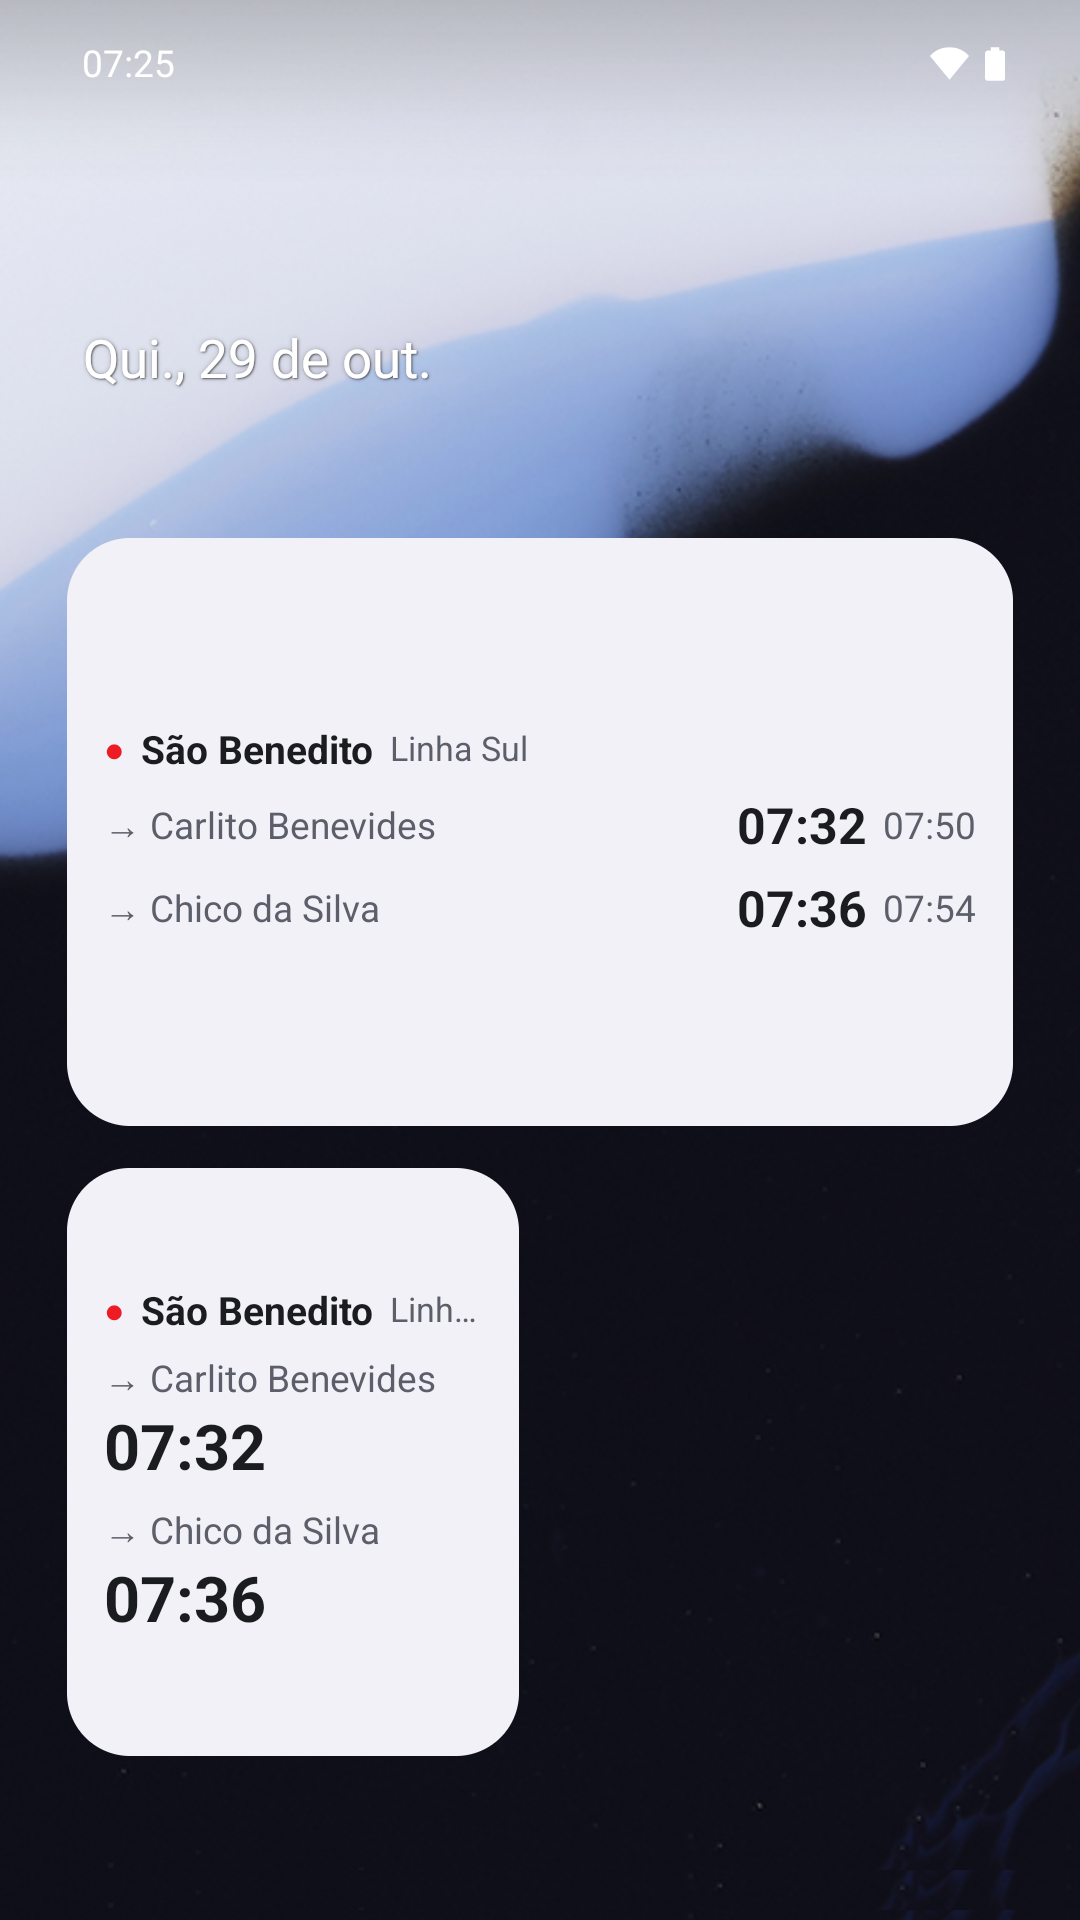
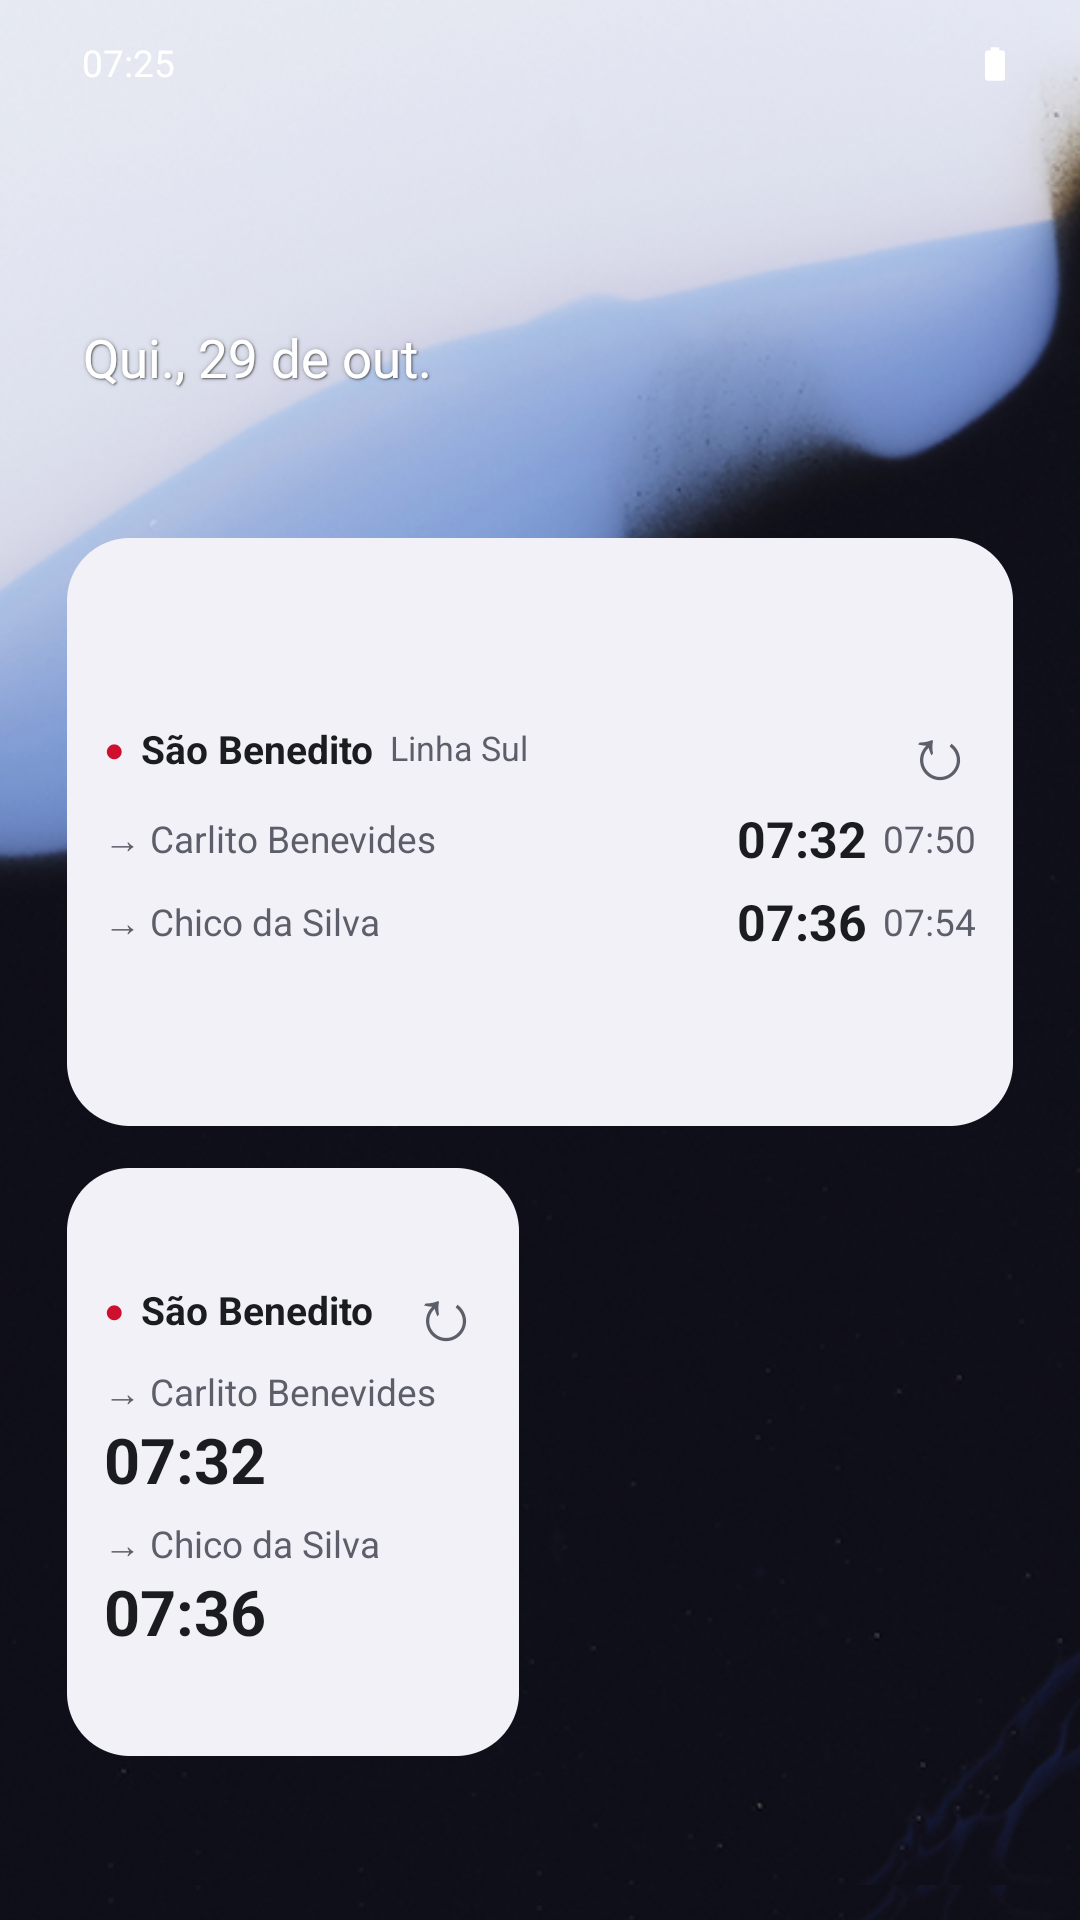
Capturas refeitas na 1.58 e página com as 7, em faixa que rola no celular
As 7 capturas da loja (também no fastlane e na página) com as cores do mapa
oficial, o widget com o ↻ e sem o "…" solto, e o aviso da estação
subterrânea na São Benedito. A página passa de 3 para as 7 capturas, com o
widget em 2º lugar: grade de 4 colunas no computador e faixa com rolagem
lateral no celular. A receita das capturas fica em tools/video/README.md.

diff --git a/docs/index.html b/docs/index.html
@@ -81,8 +81,13 @@
   .feature { background: var(--card); border-radius: 16px; padding: 18px; }
   .feature h3 { margin: 0 0 6px; font-size: 1.1rem; }
   .feature p { margin: 0; color: var(--muted); }
-  .shots { display: grid; grid-template-columns: repeat(auto-fit, minmax(200px, 1fr)); gap: 16px; margin-top: 20px; }
+  .shots { display: grid; grid-template-columns: repeat(4, 1fr); gap: 16px; margin-top: 20px; }
   .shots figure { margin: 0; text-align: center; }
+  /* No celular, as capturas viram uma faixa que rola para o lado. */
+  @media (max-width: 700px) {
+    .shots { display: flex; overflow-x: auto; scroll-snap-type: x mandatory; gap: 14px; padding-bottom: 10px; }
+    .shots figure { flex: 0 0 62%; scroll-snap-align: center; }
+  }
   .shots img {
     width: 100%; max-width: 260px; border-radius: 22px; border: 6px solid #1d1b1e;
     box-shadow: 0 8px 24px rgba(0,0,0,.18);
@@ -147,8 +152,12 @@
 
     <div class="shots">
       <figure><img src="img/tela-1.jpg" alt="Tela inicial com as estações mais próximas" loading="lazy"><figcaption>Estações perto de você</figcaption></figure>
-      <figure><img src="img/tela-2.jpg" alt="Horários de uma estação" loading="lazy"><figcaption>Todos os horários</figcaption></figure>
-      <figure><img src="img/tela-3.jpg" alt="Modo viagem com o aviso de descida" loading="lazy"><figcaption>Modo viagem</figcaption></figure>
+      <figure><img src="img/tela-4.jpg" alt="Widgets na tela inicial com os próximos horários da estação" loading="lazy"><figcaption>Widget na tela inicial</figcaption></figure>
+      <figure><img src="img/tela-2.jpg" alt="Horários de uma estação, com a integração com a Linha Nordeste" loading="lazy"><figcaption>Todos os horários</figcaption></figure>
+      <figure><img src="img/tela-3.jpg" alt="Modo viagem com o aviso de descida" loading="lazy"><figcaption>Aviso para descer</figcaption></figure>
+      <figure><img src="img/tela-6.jpg" alt="Roteiro com integração entre a Linha Sul e a Linha Nordeste" loading="lazy"><figcaption>Integração entre linhas</figcaption></figure>
+      <figure><img src="img/tela-5.jpg" alt="Lembrete na agenda para a hora do metrô" loading="lazy"><figcaption>Lembrete de saída</figcaption></figure>
+      <figure><img src="img/tela-7.jpg" alt="Escolha entre ir direto ou sentado pelo terminal" loading="lazy"><figcaption>Ir sentado</figcaption></figure>
     </div>
   </section>
 

diff --git a/tools/video/README.md b/tools/video/README.md
@@ -54,6 +54,20 @@ As telas vêm do emulador Android, com o sistema em pt-BR
   `http://localhost:8000/app/`, que conta como site seguro para a localização) e salvar `adb exec-out screencap -p` em
   `$VIDEO_WORK/ios/raw_inicio.png` (antes da localização) e
   `raw_estacoes.png` (depois, com `adb emu geo fix -38.5363 -3.7330`).
+- **Capturas da loja** (`tools/play/imagens/tela-*.png`, refeitas na 1.58):
+  emulador sem internet (`svc wifi disable; svc data disable`), relógio manual
+  em quinta 29/10 às 07:25 (`settings put global auto_time 0; date 102907252026.00`),
+  com a grade de dia útil desse dia já baixada e `synced_at_weekday` trocado
+  para as 05:10 em `shared_prefs/metrofor_schedules.xml` (copiar como root com
+  `cat >`, para manter o dono do arquivo), sem estação fixada, posição a ~200 m
+  da São Benedito por um provedor de teste
+  (`cmd location providers add-test-provider fused` +
+  `set-test-provider-location fused --location -3.7330,-38.5363`) e a barra de
+  status no modo demo (`clock -e hhmm 0725`). A de Parangaba é às 10:00. O aviso
+  de descida sai de uma viagem real São Benedito → Parangaba avançando relógio
+  e posição estação por estação até Couto Fernandes; o cartão expandido da
+  notificação é recortado da barra de notificações e colado no topo. Todas são
+  cortadas de 1080×2400 para 1080×1920.
 - **App Android (gravação):** `adb shell screenrecord`, o modo demo do
   SystemUI para a barra de status, e a viagem simulada com `date` +
   `emu geo fix` a cada estação: é o que `gravar_viagem.sh` faz.

diff --git a/README.md b/README.md
@@ -1030,8 +1030,8 @@ O material para o Play Console fica em [`tools/play/`](tools/play/):
   1024×500 e 7 capturas 1080×1920 (a loja exige proporção 16:9 ou 9:16; as telas
   de 1080×2400 são cortadas embaixo): tela inicial, estação com integração,
   aviso de descida, widget, lembrete na agenda, viagem com integração e
-  "sentado, pelo terminal"; o site usa as 3 primeiras. Na do widget, os ícones
-  de outros apps foram tirados da tela inicial do emulador antes da captura. A tela do aviso de descida é a tela real da
+  "sentado, pelo terminal"; o site usa as 7, com o widget em 2º lugar. Na do widget, a ponta dos ícones de
+  outros apps, que sobra no corte de 1920, foi coberta com o fundo logo acima. A tela do aviso de descida é a tela real da
   viagem com o cartão real da notificação, recortado da barra de notificações,
   colado no topo como o balão que aparece no aparelho.
 - `video-modo-viagem.mp4` — o modo viagem em uso (iniciar, notificação fixa,
